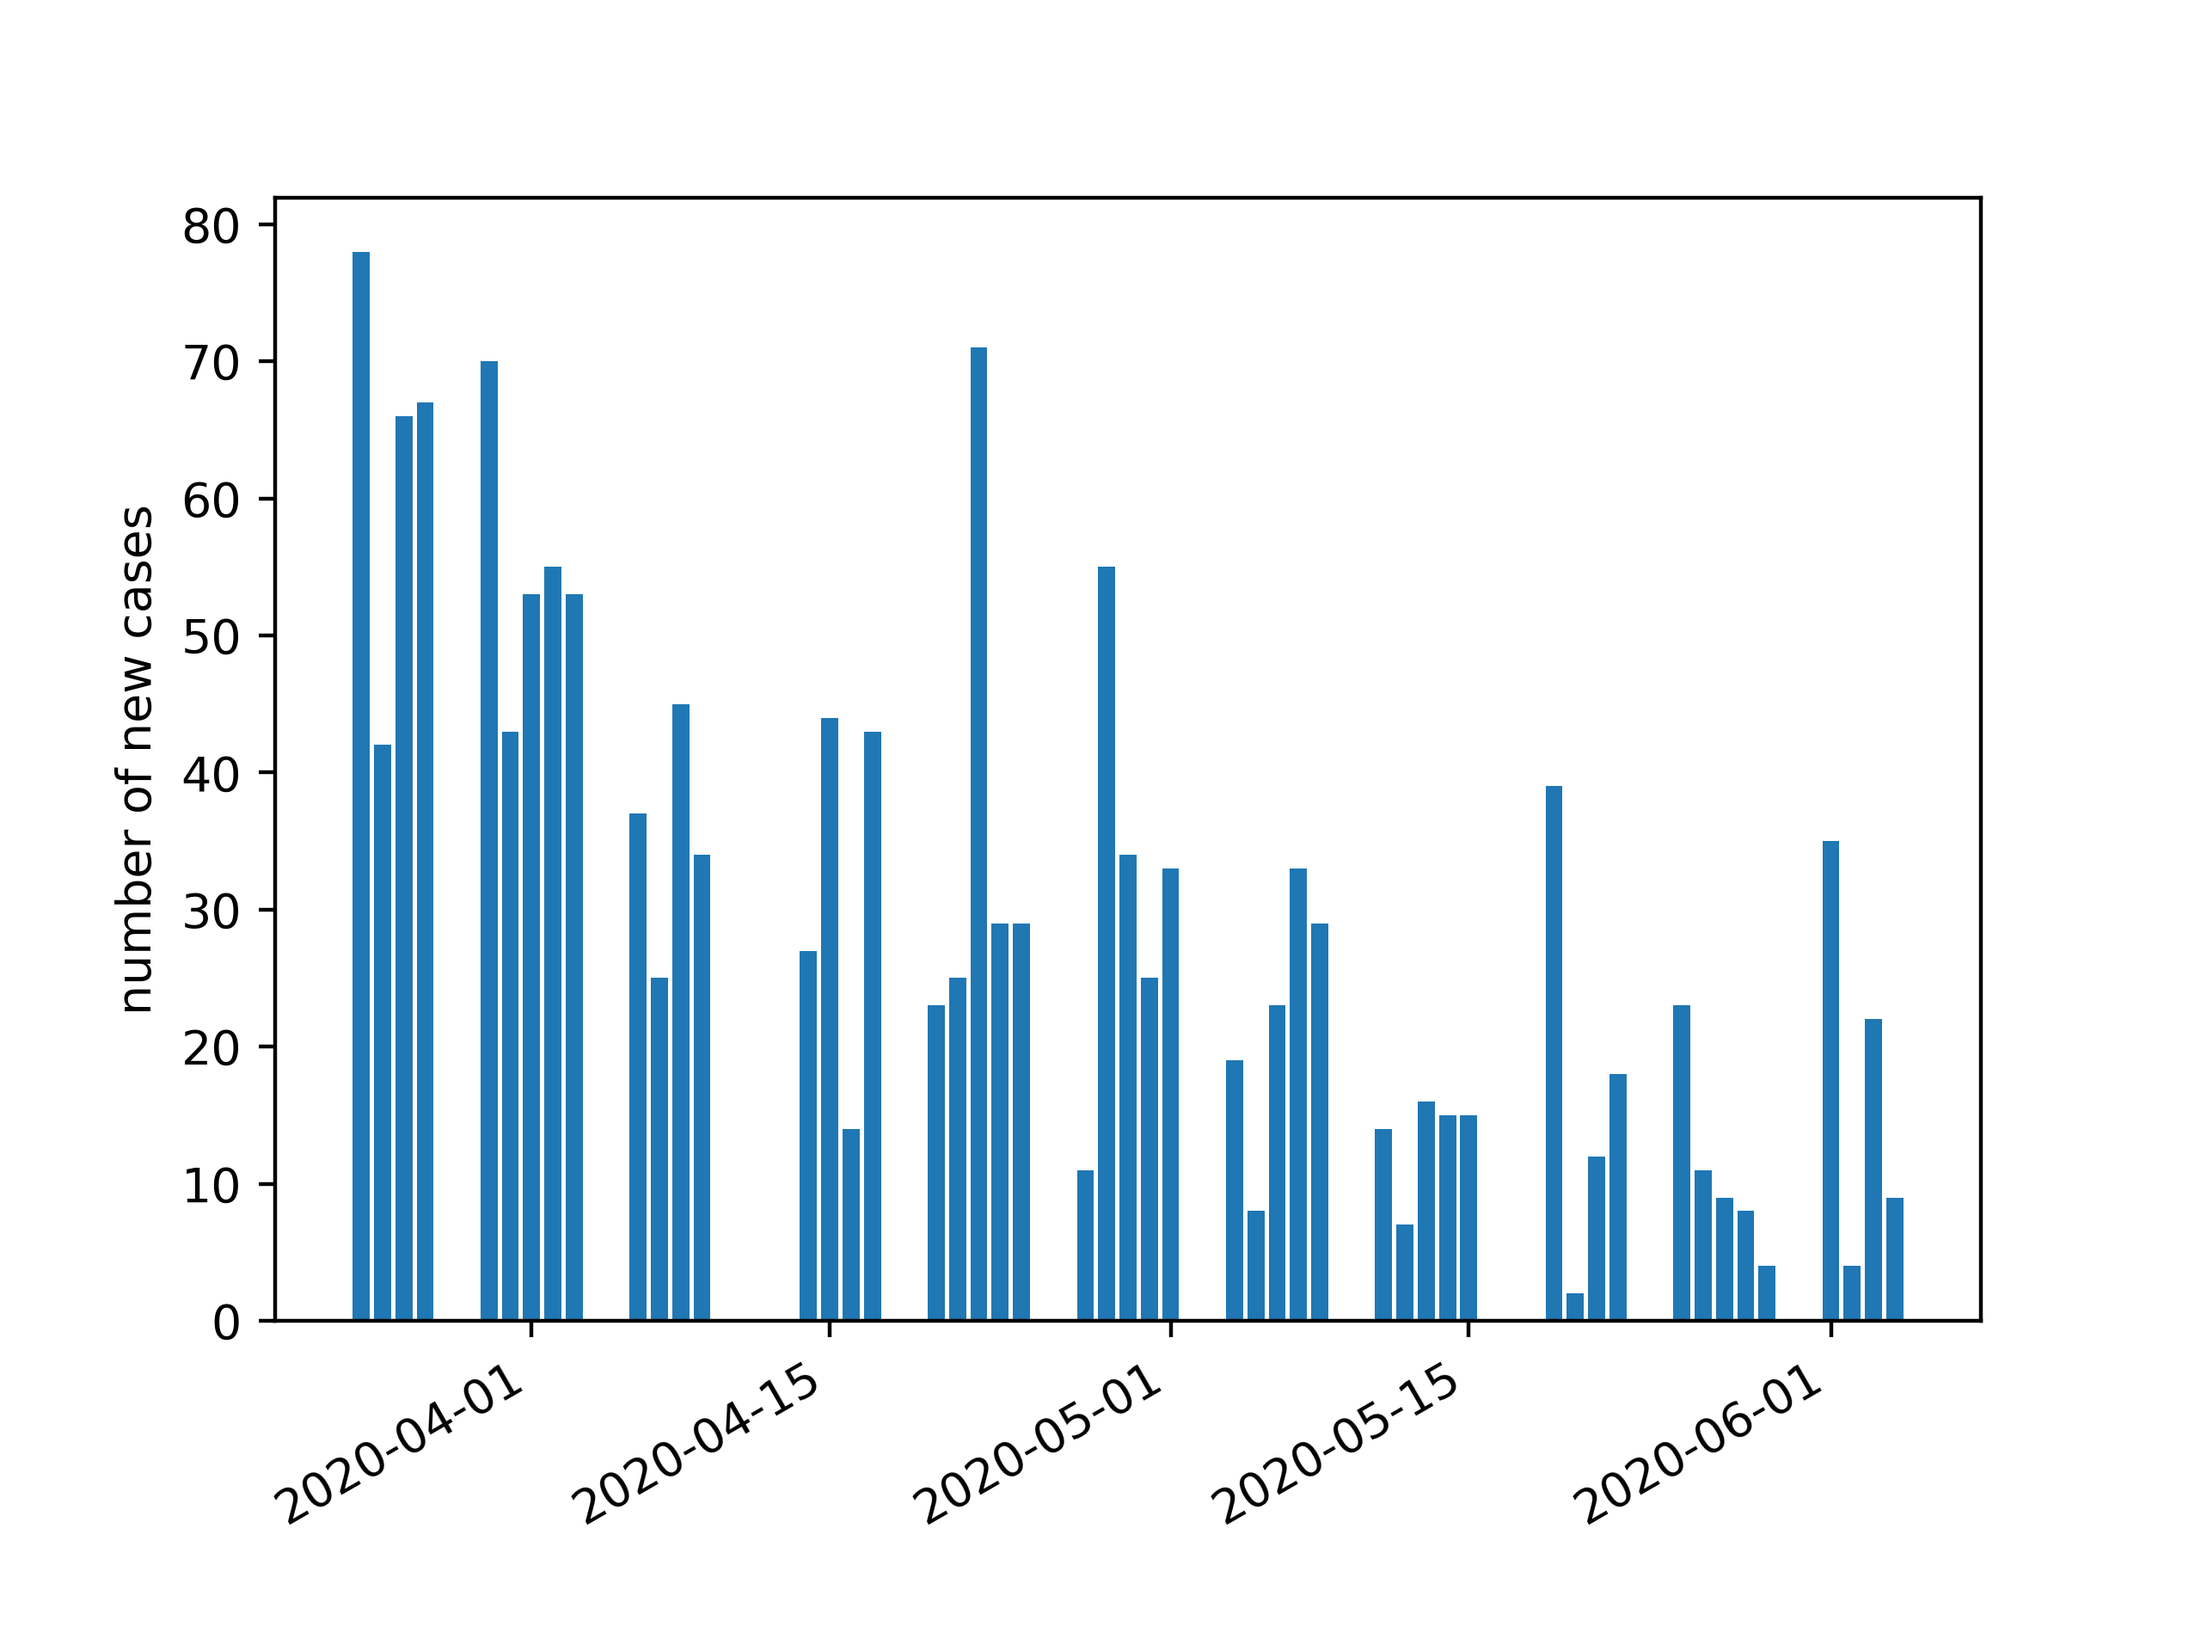
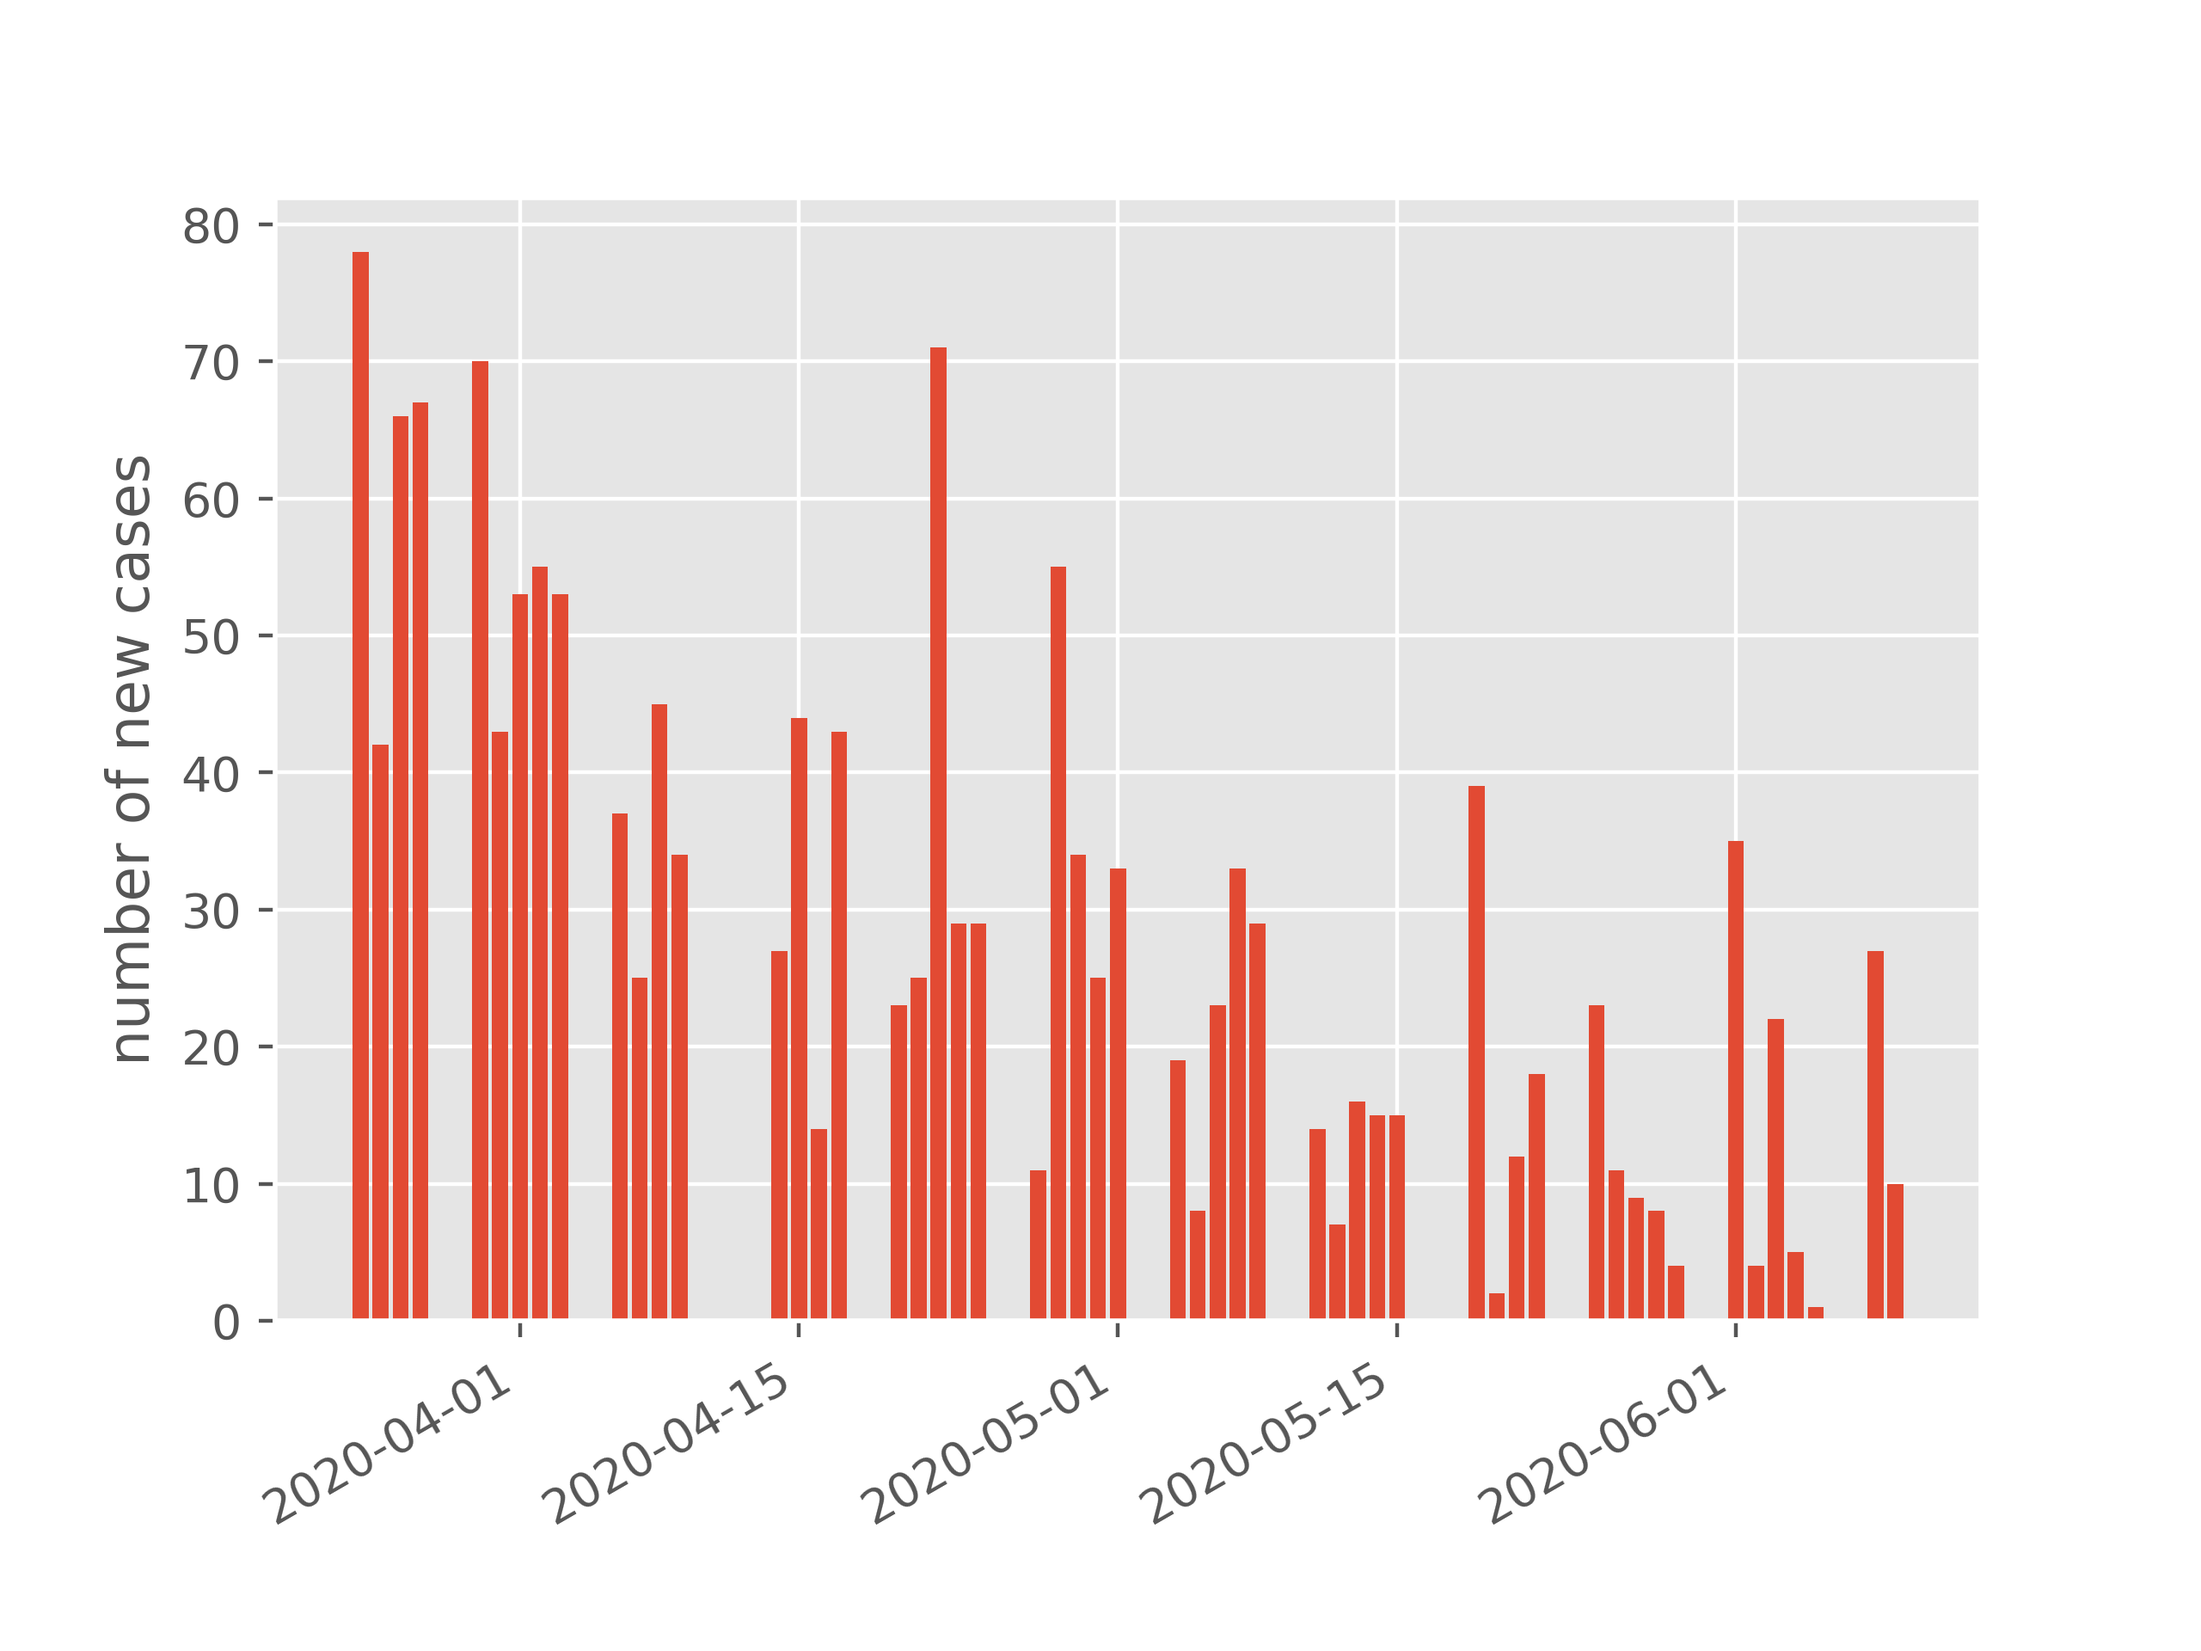
better chart styling

diff --git a/updates/templates/index.html b/updates/templates/index.html
@@ -3,6 +3,6 @@
     <h4>Date: {{date}}</h4>
     <h3>Number of new cases: {{new_cases}}</h3>
     <h5>Last updated: {{timestamp}}</h5>
-    <h5>Note: the lastest number is only available on a business day.</h5>
+    <h5>Note: data is only available on a business day.</h5>
     <img src="{{ MEDIA_URL }}new_cases.png" width="50%">
 </div>

diff --git a/updater/extract_records.py b/updater/extract_records.py
@@ -110,7 +110,8 @@ def save_past_records():
 
 
 def add_new_record():
-    prev_total = pd.read_csv(os.path.join(settings.MEDIA_ROOT, 'case_details.csv')).shape[0]
+    prev_csv = pd.read_csv(os.path.join(settings.MEDIA_ROOT, 'case_details.csv'))
+    prev_total = prev_csv.shape[0]
     new_csv = pd.read_csv('http://www.bccdc.ca/Health-Info-Site/Documents/BCCDC_COVID19_Dashboard_Case_Details.csv')
     new_total = new_csv.shape[0] 
     new_date = date.today()
@@ -125,6 +126,7 @@ def add_new_record():
     new_record.save()
     print('Saving ', str(new_record))
 
+    prev_csv.to_csv(os.path.join(settings.MEDIA_ROOT, 'case_details_ytd.csv'))
     new_csv.to_csv(os.path.join(settings.MEDIA_ROOT, 'case_details.csv'))
     print('Saved new case_details.csv')
 
@@ -142,6 +144,7 @@ def generate_new_cases_chart():
     df = df.set_index('date')
 
     df.new_cases = pd.to_numeric(df.new_cases, errors='coerce')
+    plt.style.use('ggplot')
     plt.bar(df.index, df.new_cases.values)
     plt.ylabel('number of new cases')
     plt.gcf().autofmt_xdate()

diff --git a/updater/updater.py b/updater/updater.py
@@ -7,6 +7,6 @@ def start():
     logging.basicConfig()
     logging.getLogger('apscheduler').setLevel(logging.DEBUG)
 
-    scheduler = BackgroundScheduler(job_defaults={'misfire_grace_time': 15*60})
+    scheduler = BackgroundScheduler(job_defaults={'misfire_grace_time': 60*60*6})
     scheduler.add_job(add_new_record, 'cron', hour='17', minute='05')
     scheduler.start()

diff --git a/updates/apps.py b/updates/apps.py
@@ -5,9 +5,9 @@ class UpdatesConfig(AppConfig):
     name = 'updates'
 
     def ready(self):
-        from updater import extract_records, update
+        from updater import extract_records, updater
 
         extract_records.save_past_records()
-        update.start()
+        updater.start()
 
 
